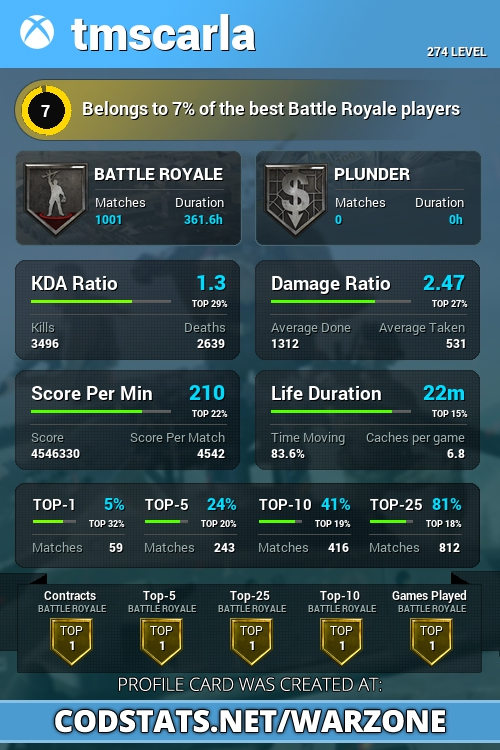
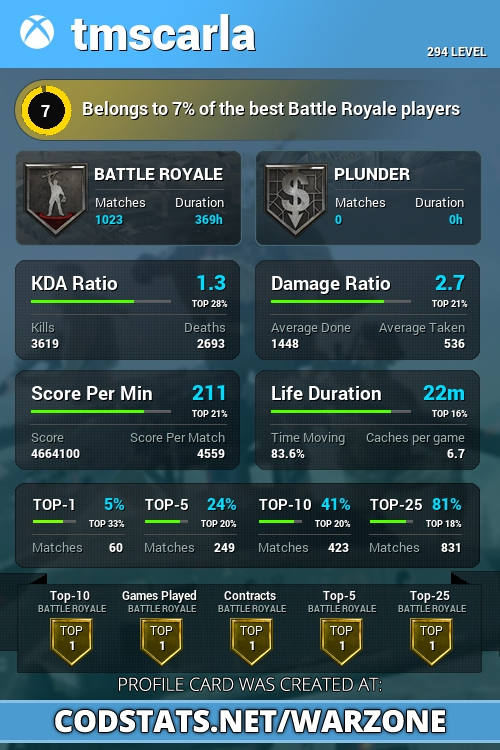
Add Warzone post + misc improvements

diff --git a/fawlts.html b/fawlts.html
@@ -56,9 +56,14 @@ FAWLTS is a community of +750 professionals, organized in +20 hubs in +10 region
 </p>
 <p>
 I joined FAWLTS in November 2020, as the Head of the Hub of Liceo Scientifico Castelnuovo in Florence. My main goal is to build a community of ex-alumni with different backgrounds, in order to create an etherogeneous pool of professionals which can be of great help for the future college students and future workers.
-<br>
+</p>
+<p>
 The final aim - pandemic aside - is to be hosted in the school to organize "Job Days", an efficient and scalable mechanism to provide students with crucial information regarding their future professional path.
 </p>
+
+<br>
+
+<h3 {% if site.style == 'dark' %}class="text-white"{% endif %}>Website: <a href="https://fawls.com">https://fawlts.com</a></h3>
 
 
 

diff --git a/slides.html b/slides.html
@@ -36,13 +36,13 @@ layout: default
 <h3> College notes </h3>
 <ul style="margin-left: 2em;">
 	<li>
-		<a href="/notes/tis.pdf">Technologies for Information Systems</a> (2019) 
+		<a href="/notes/flc_lab.pdf">Formal Languages and Compilers</a> (September 2019) 
 	</li>
 	<li>
-		<a href="/notes/flc_lab.pdf">Formal Languages and Compilers</a> (2019) 
+		<a href="/notes/tis.pdf">Technologies for Information Systems</a> (February 2019) 
 	</li>
 	<li>
-		<a href="/notes/distributed_systems.pdf">Distributed Systems</a> (2018) 
+		<a href="/notes/distributed_systems.pdf">Distributed Systems</a> (December 2018) 
 	</li>
 </ul>
 

diff --git a/_posts/2021-01-28-warzone.md b/_posts/2021-01-28-warzone.md
@@ -9,11 +9,17 @@ layout: post
 When I moved to Milan in 2017 for my Master I knew that living alone, in another city, would have meant some sacrifices. I left behind in Florence my football team, my friends and some of my passions, to be fully committed to my college courses.
 </p>
 
+<p>
+
+</p>
+
 <br>
 <p align="center">
 	<img src="/img/warzone.jpg" width="100%">
 </p>
 <br>
+
+
 
 
 Here below you can find the updated summary of my stats on Call of Duty Warzone:

diff --git a/_posts/2020-12-16-amazon.md b/_posts/2020-12-16-amazon.md
@@ -4,3 +4,9 @@ published: true
 preview: "My journey to and my life at Amazon."
 layout: post
 ---
+
+... TBD ...
+
+
+<!-- Signature here -->
+<img src="/img/ts.png" height="100px">
